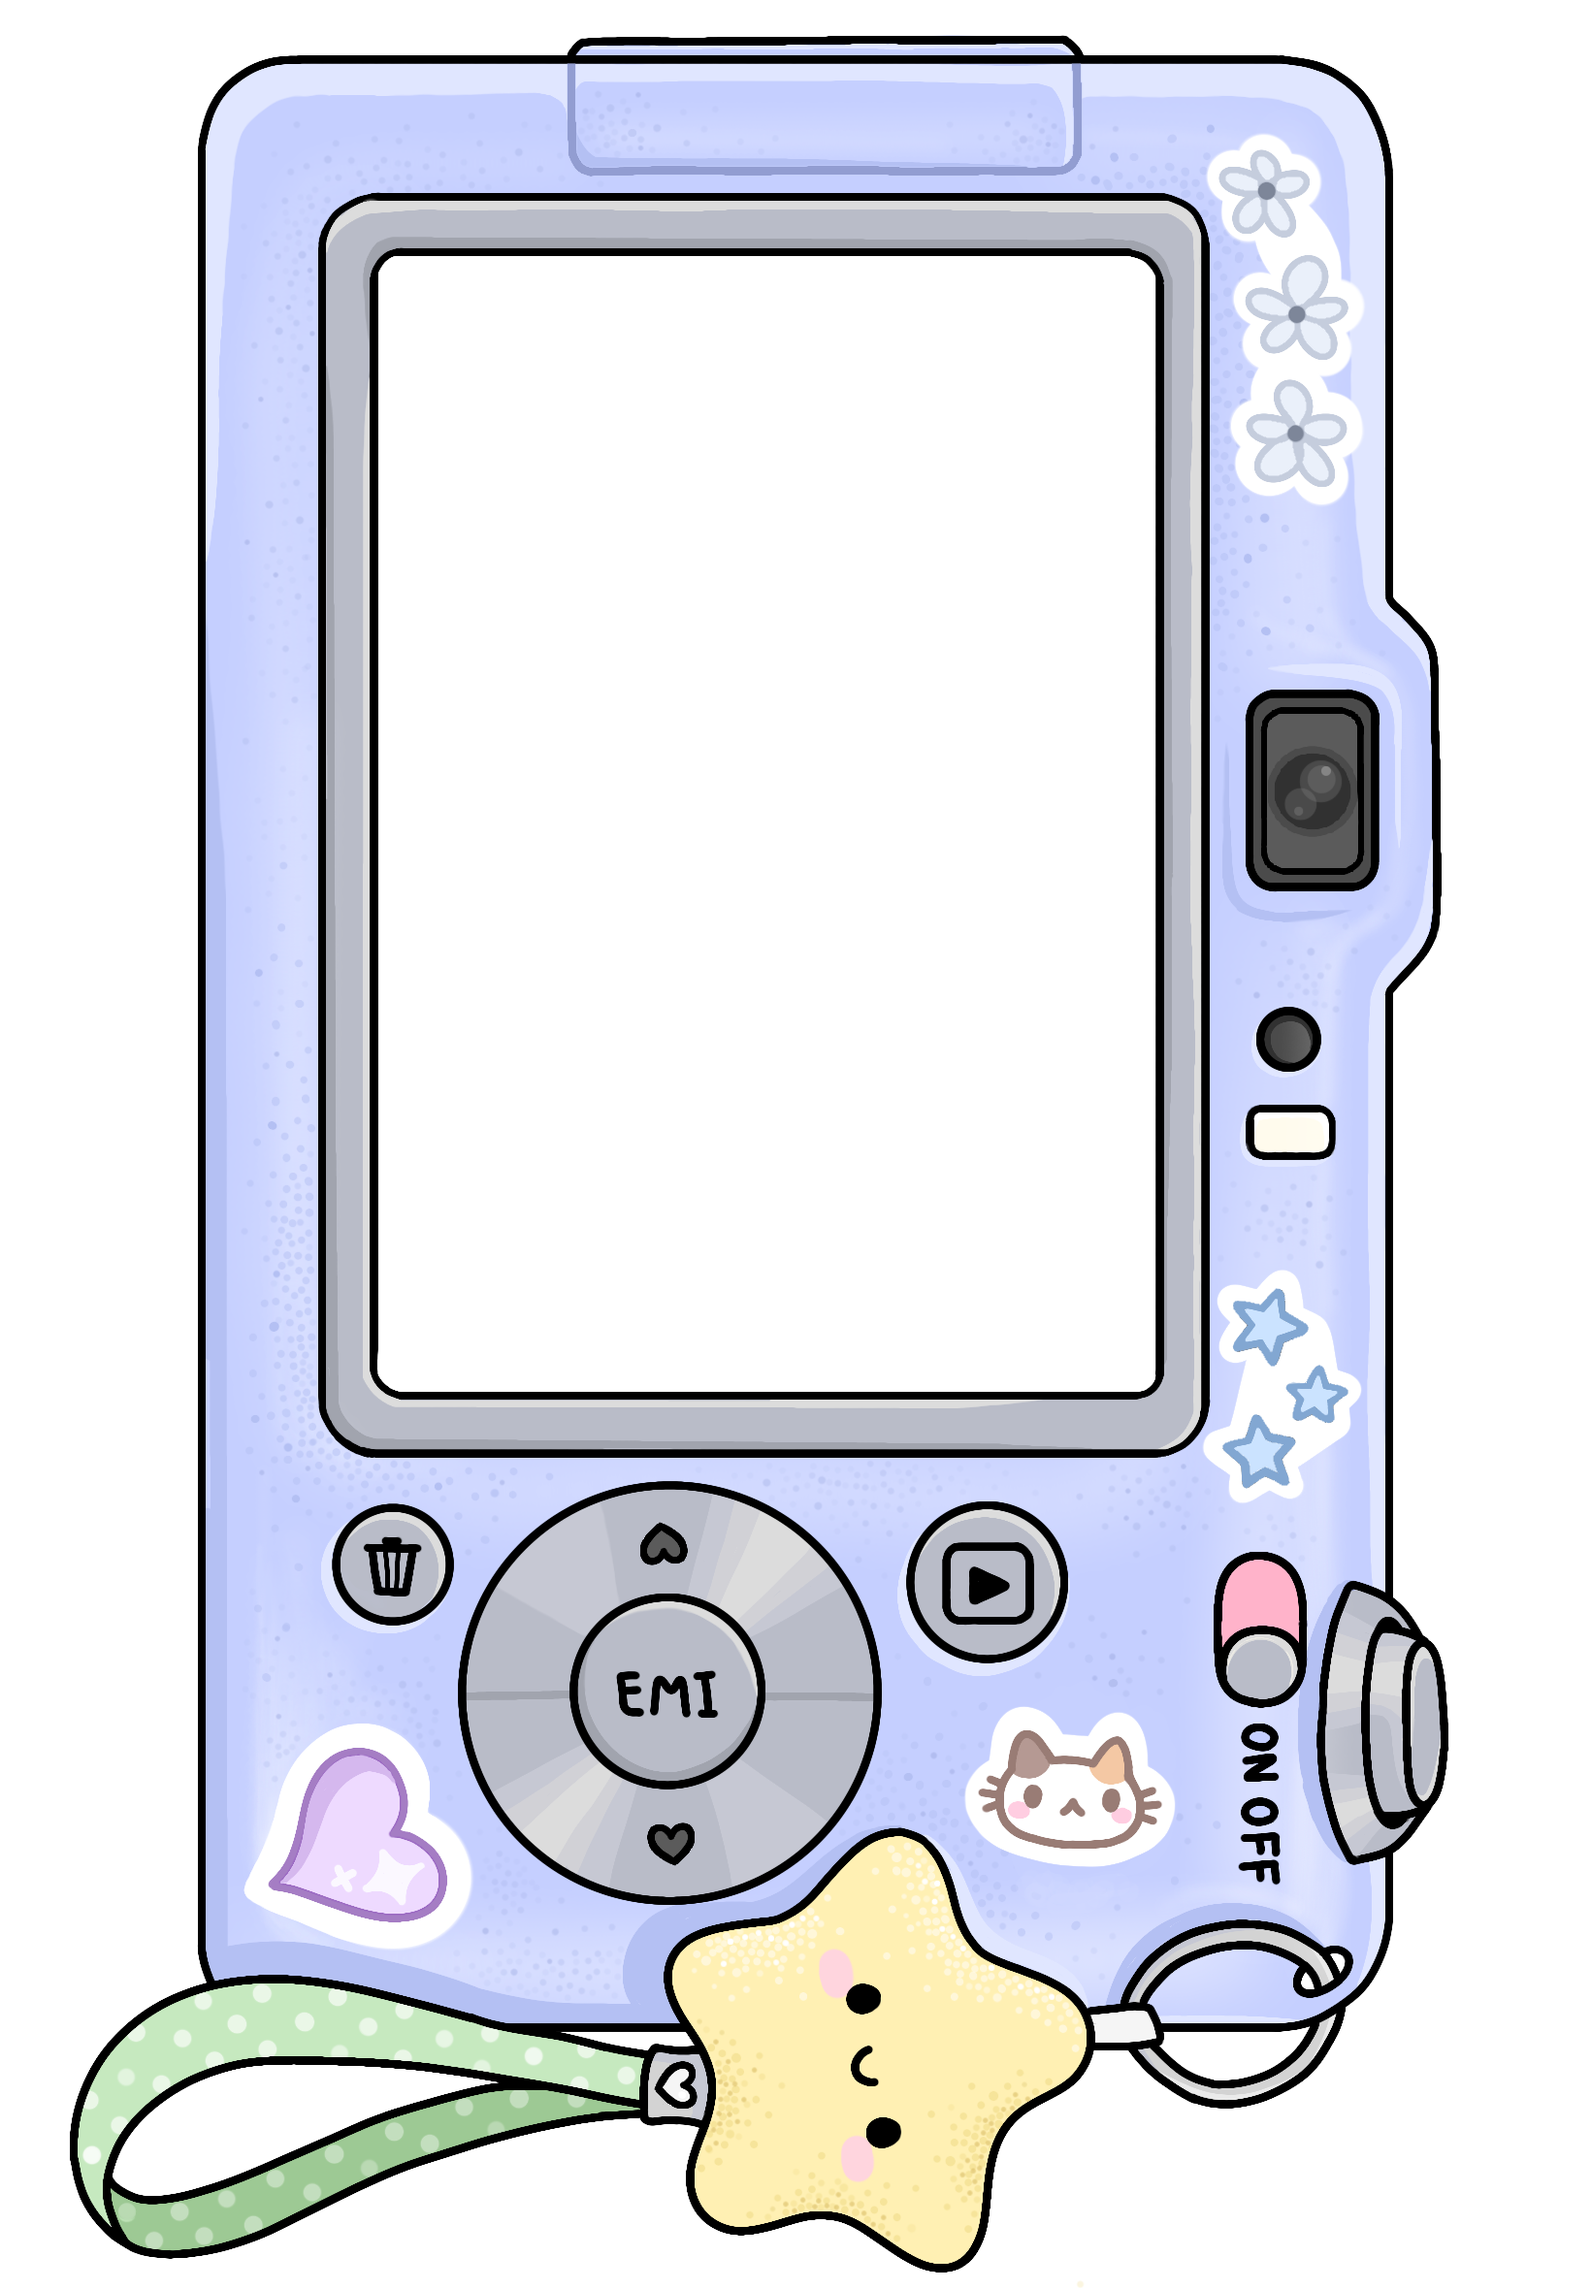
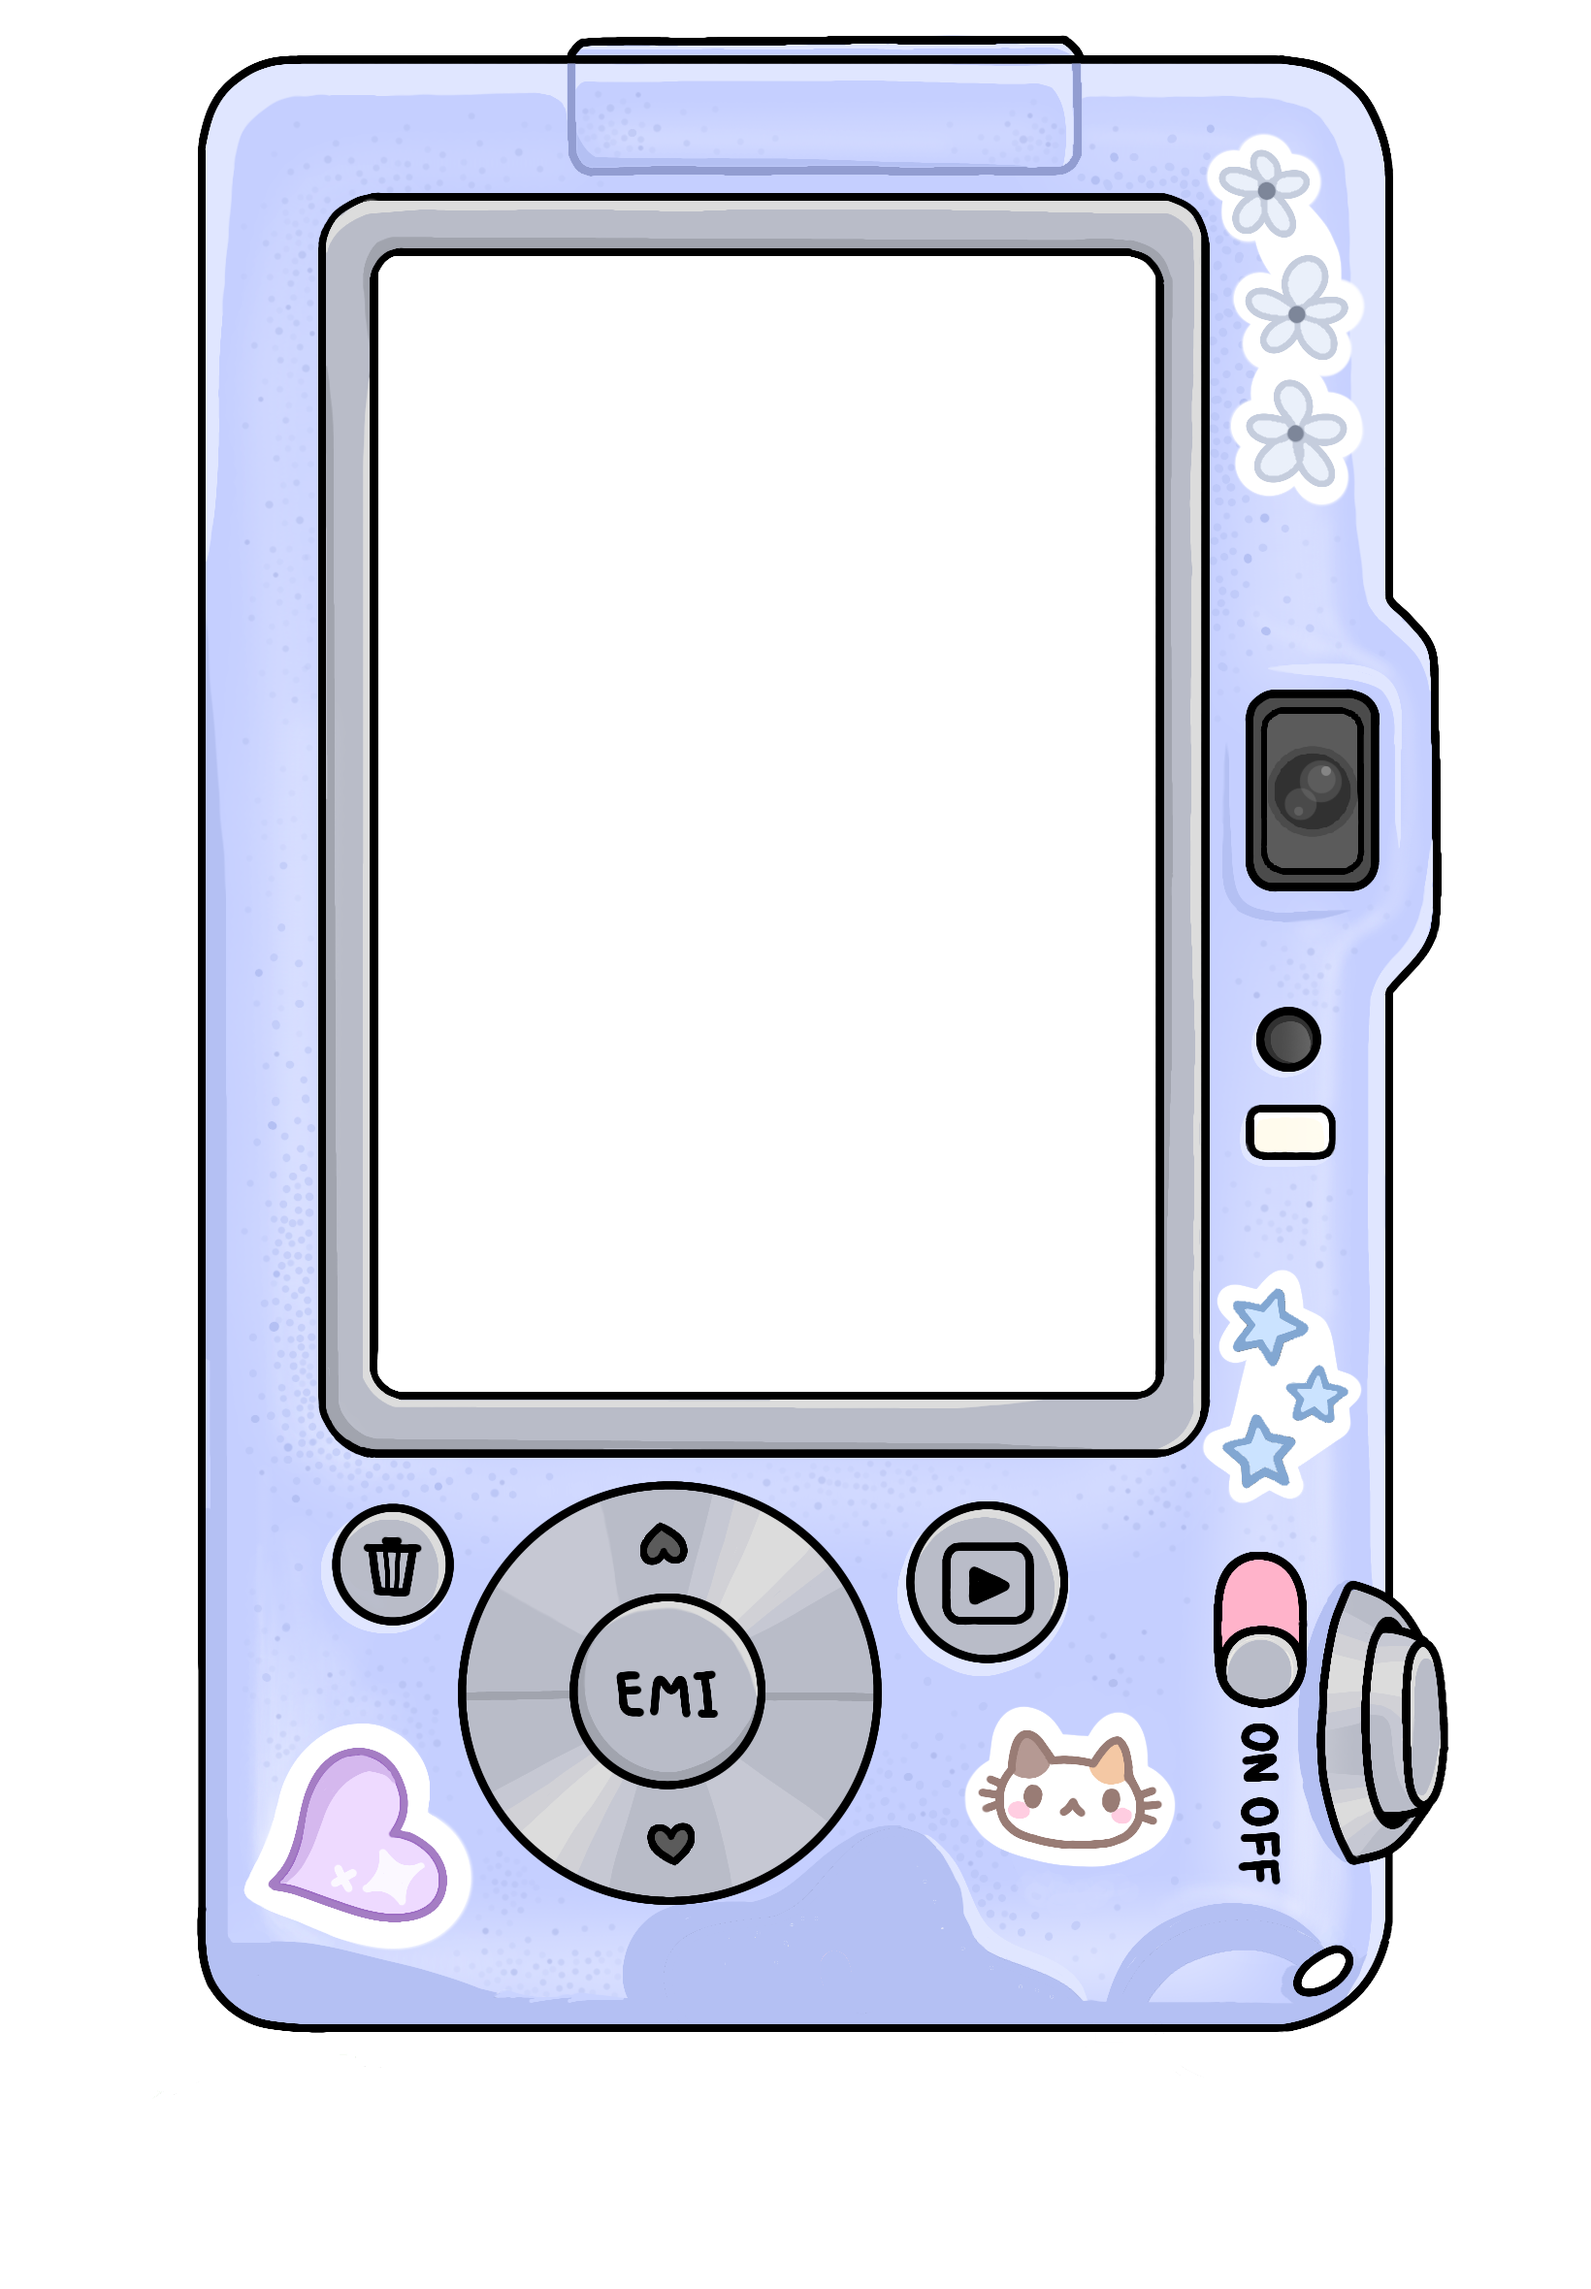
Add UI digicam button assets and hover effects

Changed region(s): [[0.0311, 0.7733, 0.8396, 1.0]]

diff --git a/src/components/digicam.tsx b/src/components/digicam.tsx
@@ -3,85 +3,194 @@
 import Image from "next/image";
 import { useState } from "react";
 
-// where the on/off switch sits on each drawing, as % of the image box
-// (measured from switch.png / switch-mobile.png, with a little padding so
-// it's easy to hit)
-const DESKTOP_HOTSPOT = { left: "67%", top: "16.5%", width: "8.5%", height: "8%" };
-const MOBILE_HOTSPOT = { left: "75.5%", top: "67%", width: "7.5%", height: "8.5%" };
+type Box = { left: string; top: string; width: string; height: string };
+
+type Part = {
+  id: string;
+  label: string;
+  // overlay art, same canvas size as the camera drawing
+  desktop: string;
+  mobile: string;
+  // clickable area on each drawing, as % of the image box (measured from the
+  // overlay's visible pixels, with a little padding so it's easy to hit)
+  desktopBox: Box;
+  mobileBox: Box;
+  round?: boolean;
+  // trims the art (CSS clip-path) so it never paints over shared lines of
+  // the base drawing; the d-pad divider would otherwise brighten away on hover
+  desktopClip?: string;
+  mobileClip?: string;
+};
+
+const box = (left: number, top: number, width: number, height: number): Box => ({
+  left: `${left}%`,
+  top: `${top}%`,
+  width: `${width}%`,
+  height: `${height}%`,
+});
+
+const SWITCH: Part = {
+  id: "switch",
+  label: "camera power switch",
+  desktop: "/switch.png",
+  mobile: "/switch-mobile.png",
+  desktopBox: box(67, 16.5, 8.5, 8),
+  mobileBox: box(75.5, 67, 7.5, 8.5),
+  round: true,
+};
+
+const BUTTONS: Part[] = [
+  {
+    id: "gallery",
+    label: "gallery",
+    desktop: "/gallery.png",
+    mobile: "/gallery-mobile.png",
+    desktopBox: box(65.2, 32.3, 8, 11.2),
+    mobileBox: box(56.4, 65.1, 11.2, 8),
+    round: true,
+  },
+  {
+    id: "delete",
+    label: "delete",
+    desktop: "/delete.png",
+    mobile: "/delete-mobile.png",
+    desktopBox: box(65.2, 70.9, 6.3, 8.7),
+    mobileBox: box(20.4, 65.2, 8.7, 6.3),
+    round: true,
+  },
+  {
+    id: "prev",
+    label: "previous photo",
+    desktop: "/next_1.png",
+    mobile: "/next_1-mobile.png",
+    desktopBox: box(65, 45.1, 9.3, 25.6),
+    mobileBox: box(29.3, 65, 25.6, 9.3),
+    desktopClip: "inset(0 26.15% 0 0)",
+    mobileClip: "inset(0 0 26.15% 0)",
+  },
+  {
+    id: "next",
+    label: "next photo",
+    desktop: "/next_2.png",
+    mobile: "/next_2-mobile.png",
+    desktopBox: box(73.8, 45.1, 9.1, 25.6),
+    mobileBox: box(29.3, 73.8, 25.6, 9.1),
+    desktopClip: "inset(0 0 0 74.3%)",
+    mobileClip: "inset(74.3% 0 0 0)",
+  },
+];
+
+const buttonClass = (round?: boolean) =>
+  `peer absolute z-10 cursor-pointer outline-none focus-visible:ring-2 focus-visible:ring-foreground/40 ${
+    round ? "rounded-full" : "rounded-lg"
+  }`;
+
+const overlayClass =
+  "pointer-events-none absolute inset-0 h-full w-full select-none will-change-[filter,opacity] transition-[opacity,filter] duration-110 peer-hover:brightness-[1.15] peer-hover:saturate-[1.15]";
+
+function Hotspot({
+  part,
+  variant,
+  hidden,
+  pressed,
+  onClick,
+}: {
+  part: Part;
+  variant: "desktop" | "mobile";
+  hidden?: boolean;
+  pressed?: boolean;
+  onClick?: () => void;
+}) {
+  const [w, h] = variant === "desktop" ? [2360, 1640] : [1640, 2360];
+  // each button + its art lives in its own layer so `peer-hover` only lights
+  // up that button's art, not every overlay after it
+  return (
+    <div className="pointer-events-none absolute inset-0">
+      <button
+        type="button"
+        aria-label={part.label}
+        aria-pressed={pressed}
+        onClick={onClick}
+        className={`pointer-events-auto ${buttonClass(part.round)}`}
+        style={variant === "desktop" ? part.desktopBox : part.mobileBox}
+      />
+      <Image
+        src={variant === "desktop" ? part.desktop : part.mobile}
+        alt=""
+        aria-hidden
+        width={w}
+        height={h}
+        loading="eager"
+        unoptimized
+        className={`${overlayClass} ${hidden ? "opacity-0" : "opacity-100"}`}
+        style={{ clipPath: variant === "desktop" ? part.desktopClip : part.mobileClip }}
+      />
+    </div>
+  );
+}
+
+function Camera({
+  variant,
+  pressed,
+  toggle,
+}: {
+  variant: "desktop" | "mobile";
+  pressed: boolean;
+  toggle: () => void;
+}) {
+  const desktop = variant === "desktop";
+  return (
+    <div
+      className={
+        desktop
+          ? "relative hidden w-full max-w-4xl md:block"
+          : "relative block w-full max-w-sm md:hidden"
+      }
+    >
+      <Image
+        src={desktop ? "/camera.png" : "/camera-mobile.png"}
+        alt="emi's hand drawn digicam"
+        width={desktop ? 2360 : 1640}
+        height={desktop ? 1640 : 2360}
+        loading="eager"
+        fetchPriority={desktop ? "high" : undefined}
+        unoptimized
+        className="h-auto w-full transform-gpu"
+      />
+      {/* keychain: just art for now, not a button */}
+      <Image
+        src={desktop ? "/keychain.png" : "/keychain-mobile.png"}
+        alt=""
+        aria-hidden
+        width={desktop ? 2360 : 1640}
+        height={desktop ? 1640 : 2360}
+        loading="eager"
+        unoptimized
+        className="pointer-events-none absolute inset-0 h-full w-full select-none"
+      />
+      {BUTTONS.map((part) => (
+        <Hotspot key={part.id} part={part} variant={variant} />
+      ))}
+      {/* switch overlay hidden = the red switch drawn underneath shows */}
+      <Hotspot
+        part={SWITCH}
+        variant={variant}
+        hidden={pressed}
+        pressed={pressed}
+        onClick={toggle}
+      />
+    </div>
+  );
+}
 
 export function Digicam() {
-  // true = switch overlay hidden, revealing the red switch drawn underneath
   const [pressed, setPressed] = useState(false);
   const toggle = () => setPressed((p) => !p);
 
-  const switchClass = `pointer-events-none absolute inset-0 h-full w-full select-none will-change-[filter,opacity] transition-[opacity,filter] duration-110 peer-hover:brightness-[1.15] peer-hover:saturate-[1.15] ${
-    pressed ? "opacity-0" : "opacity-100"
-  }`;
-  const buttonClass =
-    "peer absolute z-10 cursor-pointer rounded-full outline-none focus-visible:ring-2 focus-visible:ring-foreground/40";
-
   return (
     <>
-      {/* Desktop camera */}
-      <div className="relative hidden w-full max-w-4xl md:block">
-        <Image
-          src="/camera.png"
-          alt="emi's hand drawn digicam"
-          width={2360}
-          height={1640}
-          loading="eager"
-          fetchPriority="high"
-          unoptimized
-          className="h-auto w-full transform-gpu"
-        />
-        <button
-          type="button"
-          aria-label="camera power switch"
-          aria-pressed={pressed}
-          onClick={toggle}
-          className={buttonClass}
-          style={DESKTOP_HOTSPOT}
-        />
-        <Image
-          src="/switch.png"
-          alt=""
-          aria-hidden
-          width={2360}
-          height={1640}
-          loading="eager"
-          unoptimized
-          className={switchClass}
-        />      </div>
-
-      {/* Mobile camera */}
-      <div className="relative block w-full max-w-sm md:hidden">
-        <Image
-          src="/camera-mobile.png"
-          alt="emi's hand drawn digicam"
-          width={1640}
-          height={2360}
-          loading="eager"
-          unoptimized
-          className="h-auto w-full transform-gpu"
-        />
-        <button
-          type="button"
-          aria-label="camera power switch"
-          aria-pressed={pressed}
-          onClick={toggle}
-          className={buttonClass}
-          style={MOBILE_HOTSPOT}
-        />
-        <Image
-          src="/switch-mobile.png"
-          alt=""
-          aria-hidden
-          width={1640}
-          height={2360}
-          loading="eager"
-          unoptimized
-          className={switchClass}
-        />      </div>
+      <Camera variant="desktop" pressed={pressed} toggle={toggle} />
+      <Camera variant="mobile" pressed={pressed} toggle={toggle} />
     </>
   );
 }
